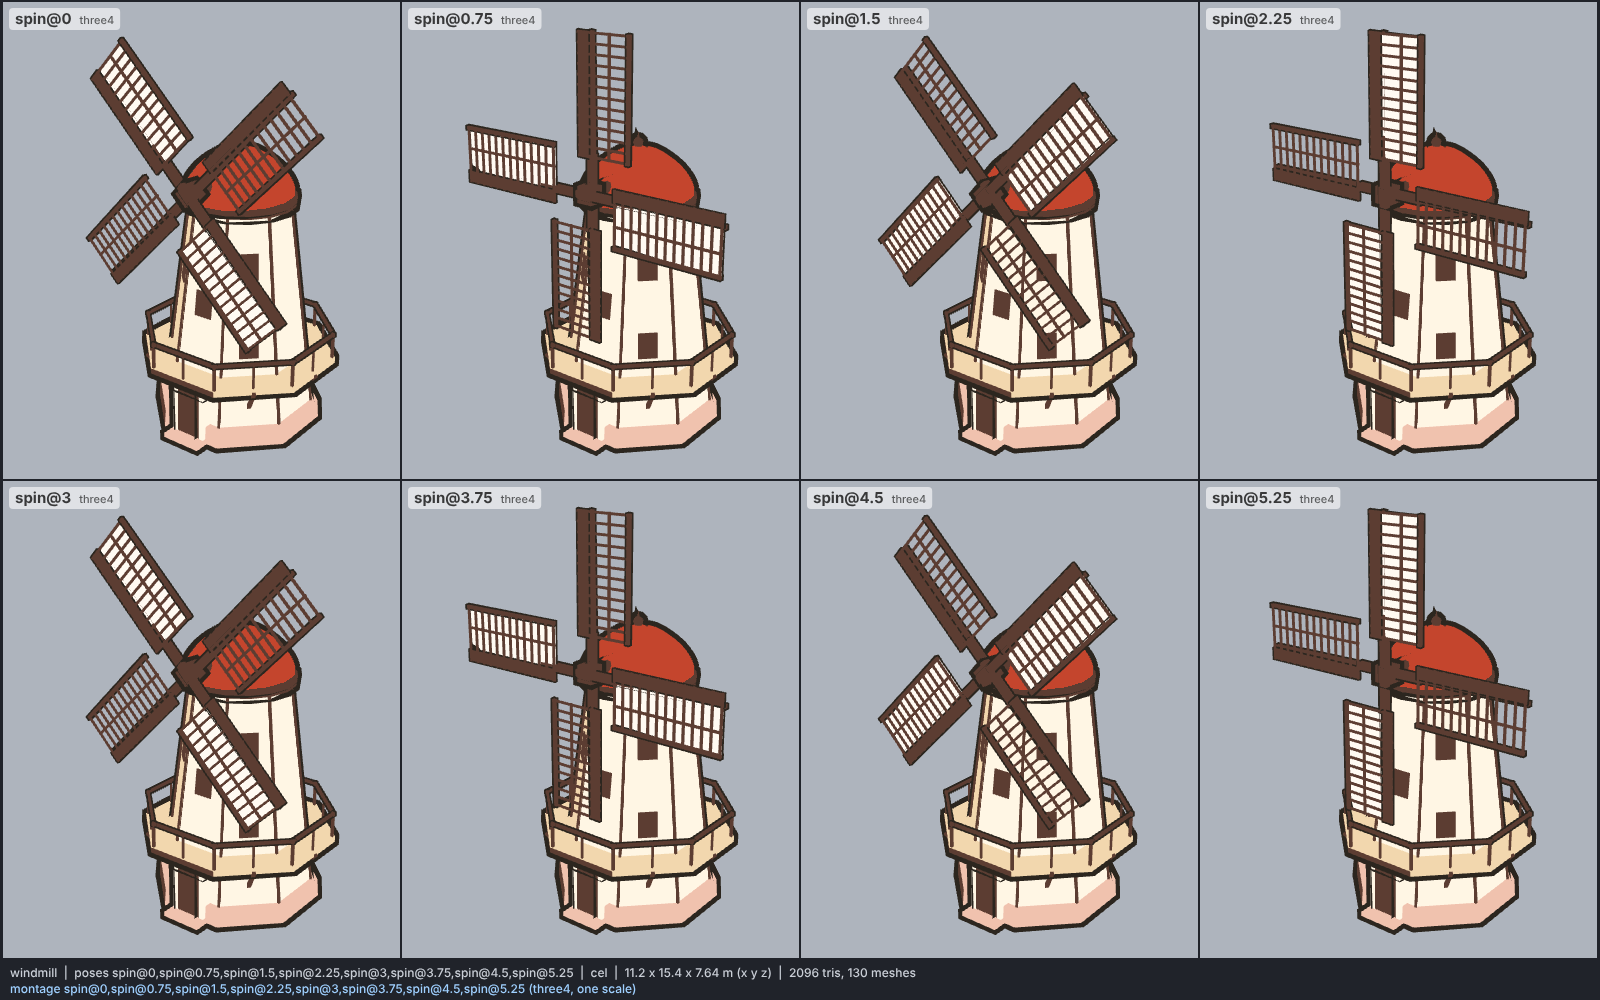
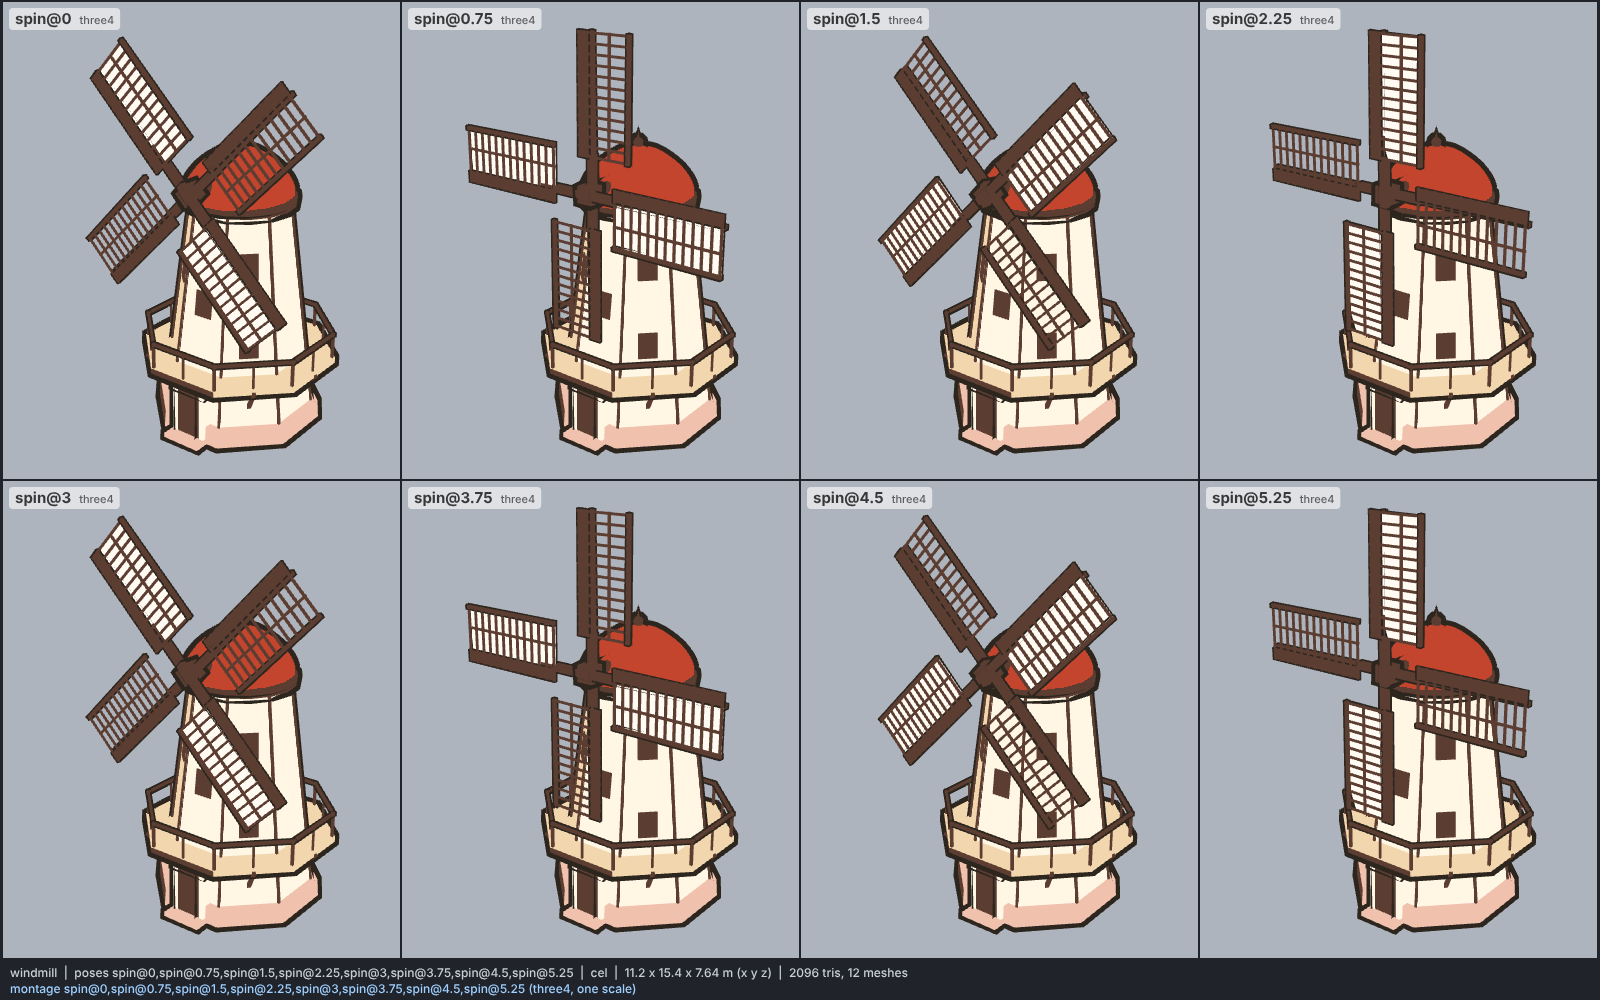
models: windmill, merge parts per material in each rigid group
130 meshes become 12 (cel): the static mill, the cap and the sails each
bake their parts into one mesh per material and ink width. The cap and
sails joints stay separate; the hub pivot is unchanged (0 m drift over the
spin clip) and the loop is still seamless. Renders refreshed.

Claude-Session: https://claude.ai/code/session_01RarBCdt4E1fNHHaUKaW5GL

Changed region(s): [[0.5312, 0.961, 0.5625, 0.992]]

diff --git a/models/windmill.js b/models/windmill.js
@@ -18,6 +18,8 @@
 //           behind their lattice; the other pair is bare lattice. Lattice bars have no hull (a 5 px hull on every bar
 //           scribbles at thumbnail size): the iris bars read as lines on their own. Whips, hemlaths and canvas are
 //           inked with a 2 px hull so each sail still has a closed edge.
+//   MERGE   parts are authored one by one, then baked per (material, ink width) into one mesh each inside the three
+//           rigid groups (static mill, cap, sails): 12 meshes in cel instead of ~130. Joints are never merged across.
 // Proportions (real size, base unit the sail radius R = 5.6 m): tower 0.7-8.8 m (circum radius 3.0 -> 1.95),
 //   plinth 0-0.7 (3.3), stage 2.6 (3.9 = 0.7 R), cap curb 8.8, dome top 11.0, finial tip 11.55; windshaft axis y 9.8,
 //   poll end z 3.0; sails r 1.3-5.6 from the axis, sail 2.1 m wide (0.38 R) including the leading board. At rest the sails
@@ -223,6 +225,58 @@ export function build(THREE, kit, colors = meta.colors, opts = {}) {
     }
     if (spread.includes(k)) put(arm, cloth(box(XH - 0.05 + 0.02, L - 0.1, 0.03)), (XH - 0.05) / 2 + 0.01, ym, zl - 0.09, `canvas${k}`);
   }
+
+  // ---------- merge: one mesh per material and ink width in each rigid group ----------
+  // Parts are authored one by one above; here every mesh of a rigid group (static mill, cap, sails) is baked into the
+  // group's frame and concatenated by (material, hull px), so ~130 parts become ~14 meshes. Joints are never crossed:
+  // the cap and the sails stay separate nodes, so the hub pivot and the spin are untouched. The hull is rebuilt on the
+  // merged geometry (hullNormals averages by position, as it did per part).
+  function merge(group) {
+    group.updateMatrixWorld(true);
+    const inv = group.matrixWorld.clone().invert();
+    const bins = new Map(), found = [];
+    const visit = (o) => {
+      for (const ch of o.children) {
+        if (ch.userData.isHull || Object.values(joints).includes(ch)) continue;
+        if (ch.isMesh) found.push(ch);
+        visit(ch);
+      }
+    };
+    visit(group);
+    for (const m of found) {
+      const hull = m.children.find((h) => h.userData.isHull);
+      const px = hull ? hull.material.uniforms.px.value : 0;
+      const key = `${m.material.uuid}|${px}`;
+      if (!bins.has(key)) bins.set(key, { mat: m.material, px, name: m.name, parts: [] });
+      let g = m.geometry.index ? m.geometry.toNonIndexed() : m.geometry.clone();
+      if (!g.attributes.normal) g.computeVertexNormals();
+      g = new THREE.BufferGeometry().setAttribute("position", g.attributes.position).setAttribute("normal", g.attributes.normal);
+      g.applyMatrix4(new THREE.Matrix4().multiplyMatrices(inv, m.matrixWorld));
+      bins.get(key).parts.push(g);
+    }
+    for (const m of found) m.parent.remove(m);
+    for (const ch of [...group.children]) if (!ch.isMesh && !Object.values(joints).includes(ch)) group.remove(ch); // empty arms
+    for (const { mat, px, name, parts } of bins.values()) {
+      const n = parts.reduce((s, g) => s + g.attributes.position.count, 0);
+      const P = new Float32Array(n * 3), N = new Float32Array(n * 3);
+      let o = 0;
+      for (const g of parts) {
+        P.set(g.attributes.position.array, o * 3);
+        N.set(g.attributes.normal.array, o * 3);
+        o += g.attributes.position.count;
+      }
+      const g = new THREE.BufferGeometry();
+      g.setAttribute("position", new THREE.BufferAttribute(P, 3));
+      g.setAttribute("normal", new THREE.BufferAttribute(N, 3));
+      const mesh = new THREE.Mesh(g, mat);
+      mesh.name = `${group.name}:${name.replace(/\d+(_\d+)?$/, "")}`;
+      if (px) kit.outline(mesh, { px });
+      group.add(mesh);
+    }
+  }
+  merge(mill);
+  merge(cap);
+  merge(sails);
 
   // ---------- clips and poses ----------
   const clips = { spin: SPIN_T };
